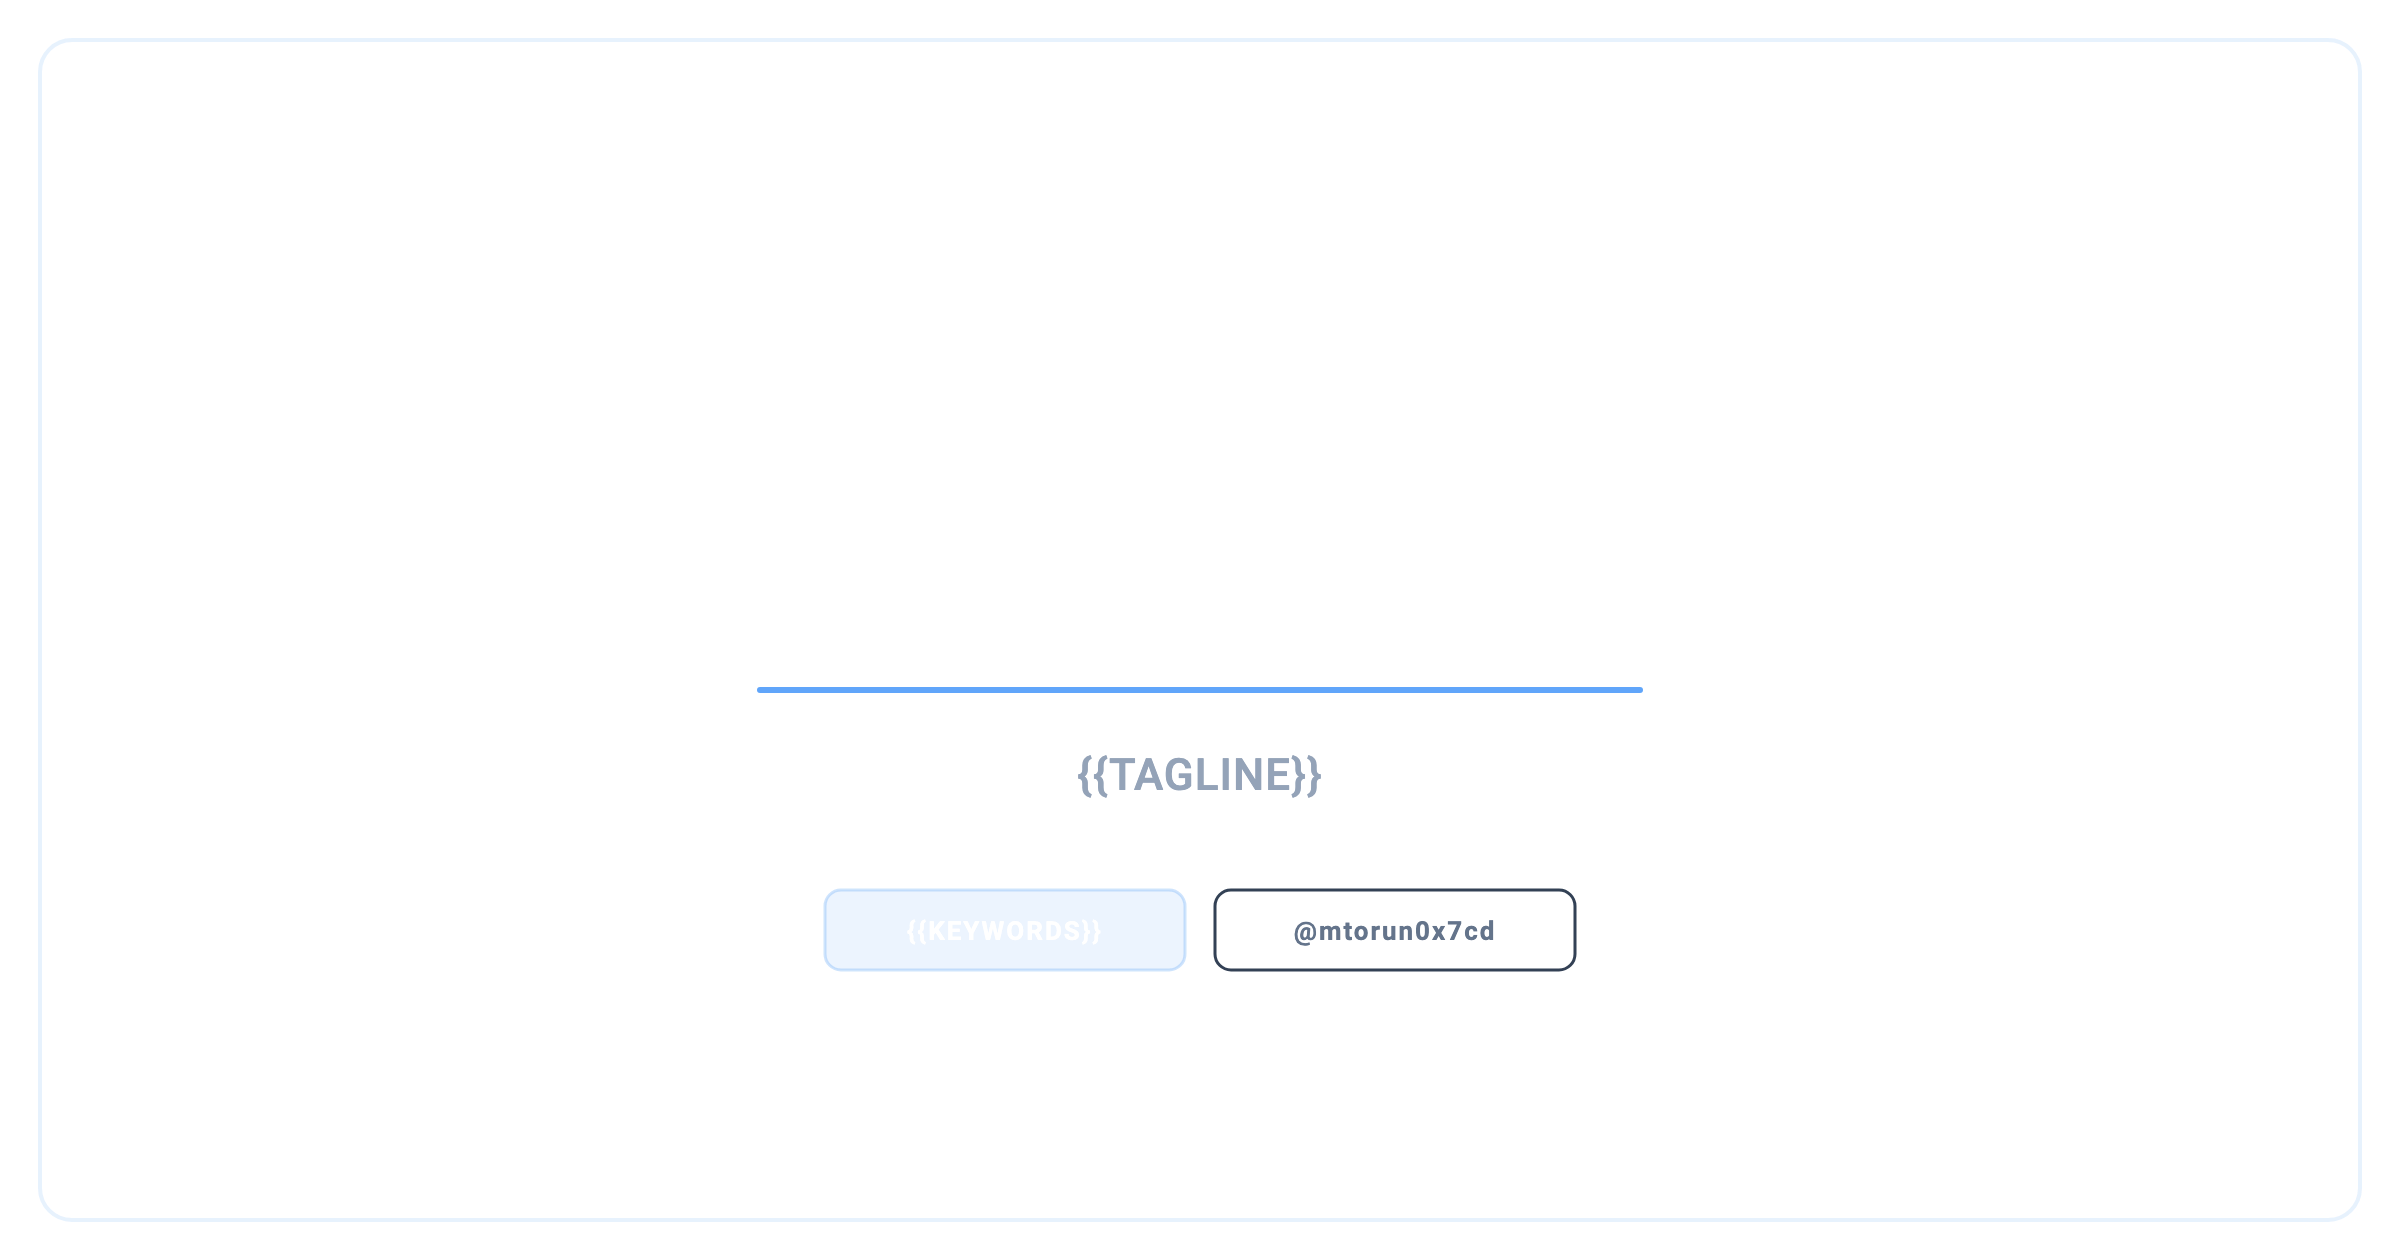
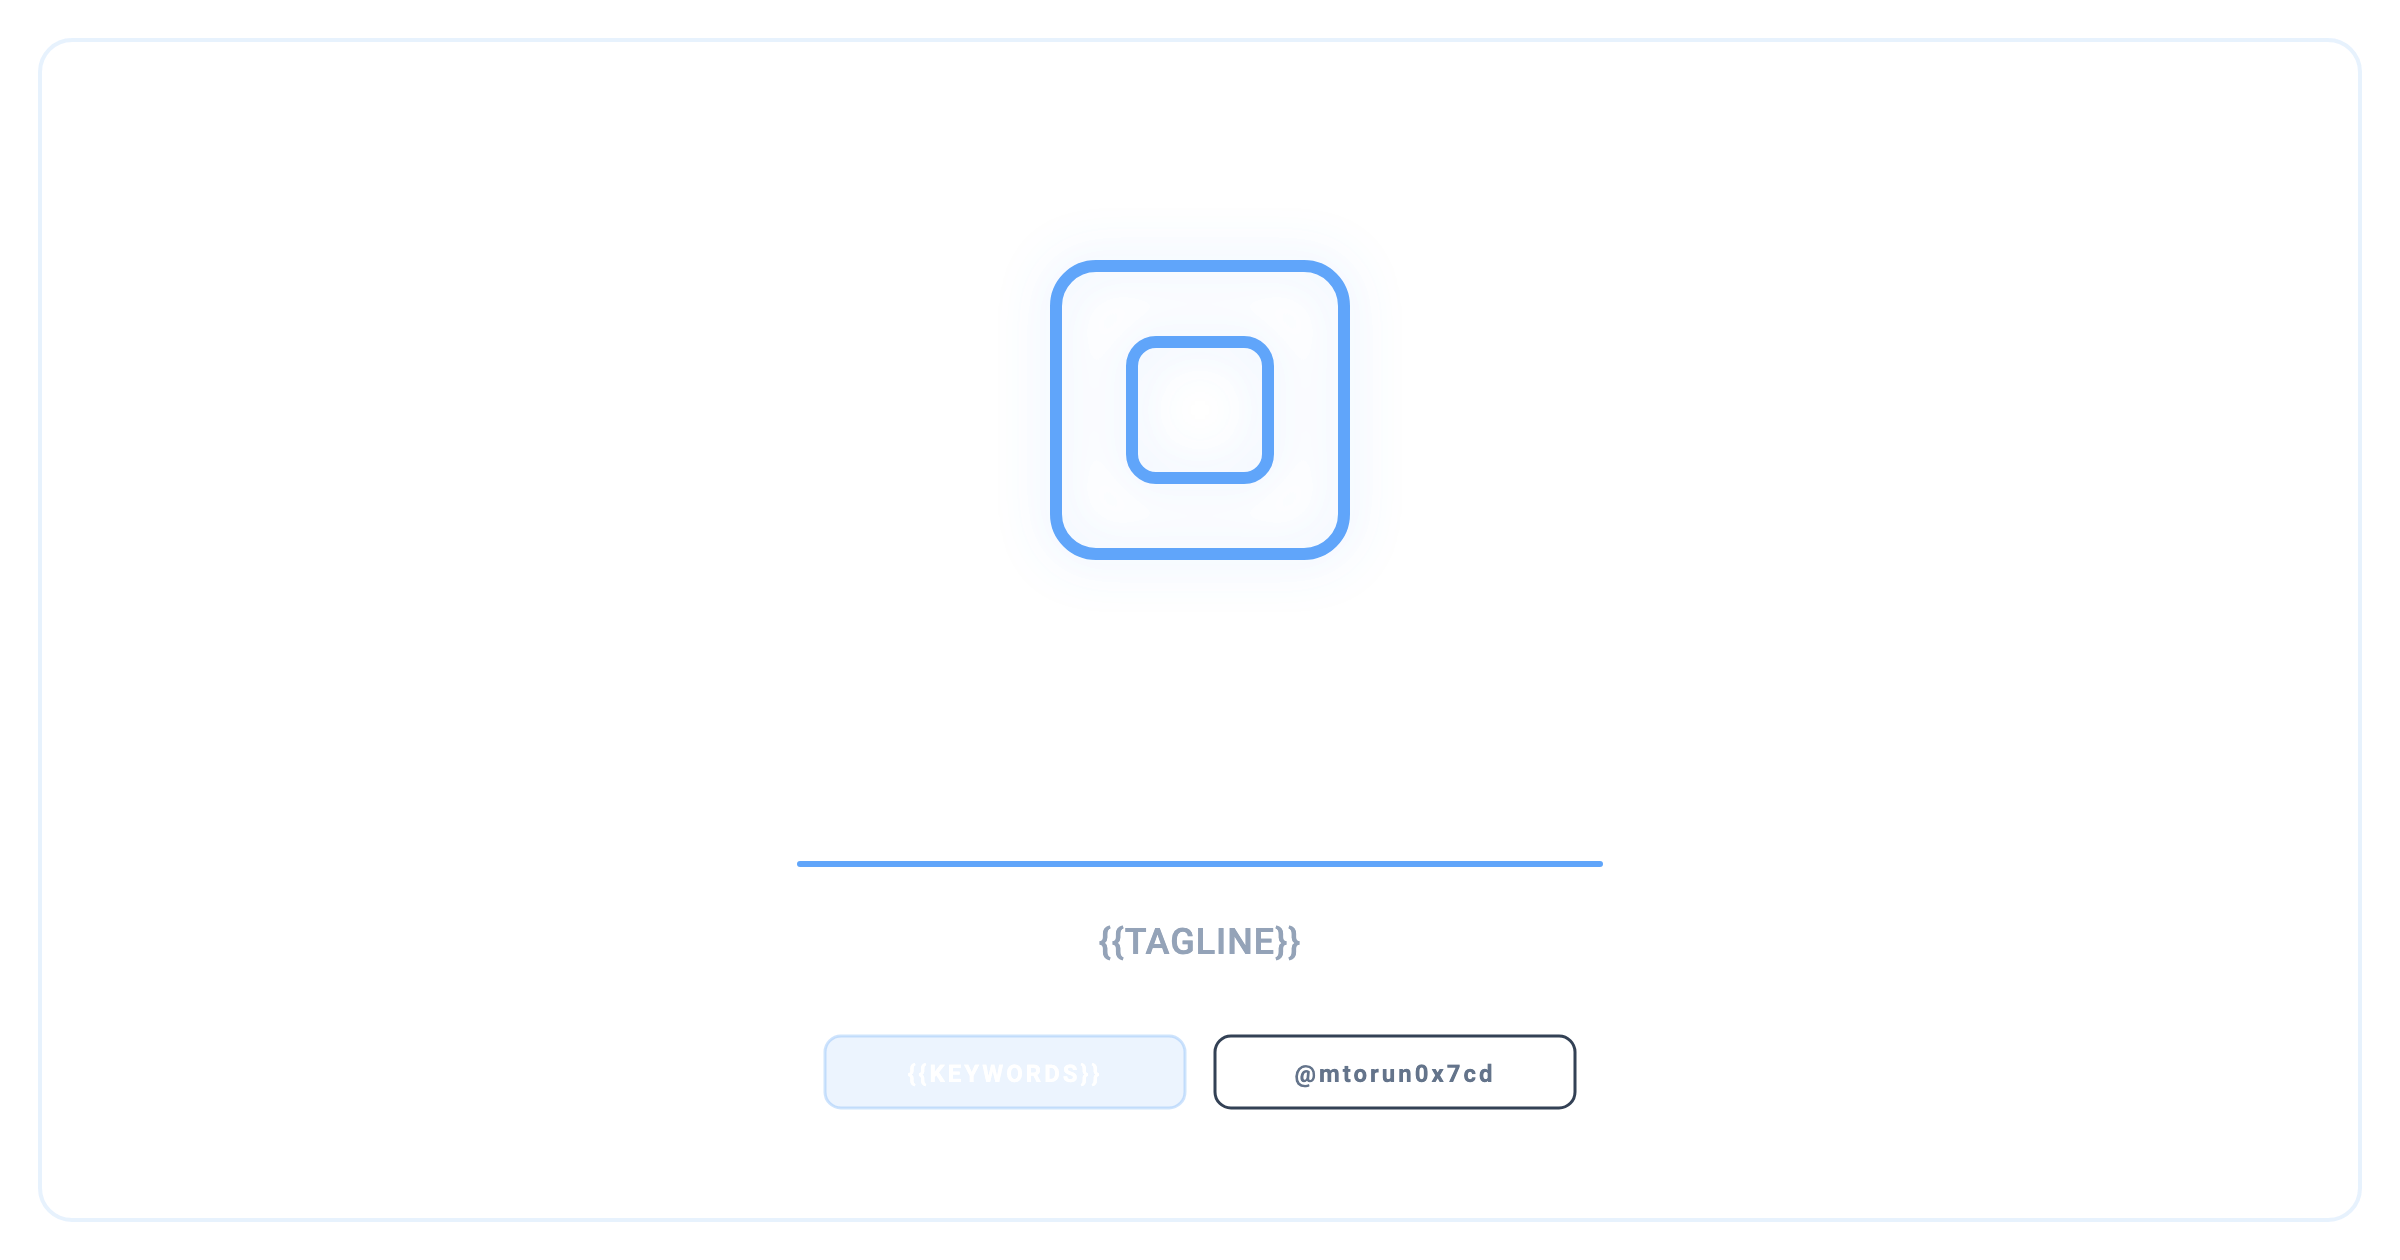
docs: rebuild the template social preview to the current family design

diff --git a/docs/TEMPLATE.md b/docs/TEMPLATE.md
@@ -28,9 +28,10 @@ than short values: `{{FEATURE}}`, `{{ARCHITECTURE}}`, `{{TECH_STACK}}`, `{{TREE}
    `LICENSE`, and `docs/social_preview.svg`; confirm none remain with `git grep '{{'`.
 2. Set `{{STATUS}}` to `Active` or `Archived`, and align `CONTRIBUTING.md`
    accordingly: an active project accepts contributions; an archive does not.
-3. Regenerate the social-preview images with `./docs/render.sh` (requires Node,
-   ImageMagick, and Google Chrome), then upload `docs/social_card.png` under the
-   repository's Settings → Social preview.
+3. Replace the placeholder icon group in `docs/social_preview.svg` with a bespoke
+   line-art glyph for the project, then regenerate the social-preview images with
+   `./docs/render.sh` (requires Node, ImageMagick, and Google Chrome) and upload
+   `docs/social_card.png` under the repository's Settings → Social preview.
 4. Add the project's dependency ecosystem to `.github/dependabot.yml` and the
    build and test steps to `.github/workflows/ci.yml`.
 5. Add stopwords for any disclosed demo credentials to `.gitleaks.toml`.